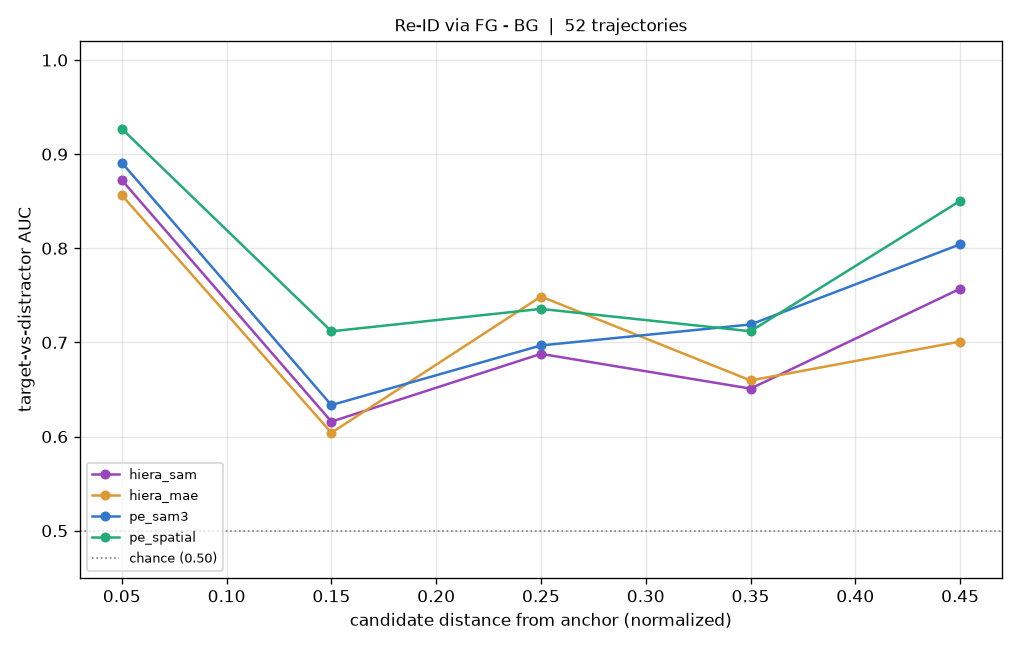
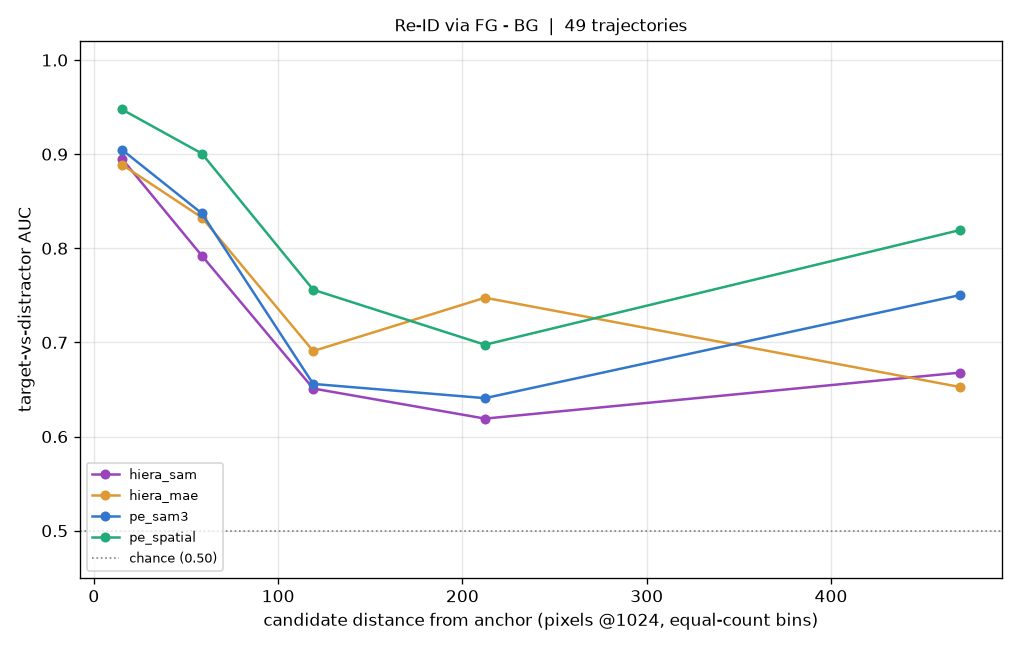
fixed experiment

diff --git a/pe_reid_longrange.py b/pe_reid_longrange.py
@@ -20,9 +20,9 @@ from sklearn.metrics import roc_auc_score
 from sklearn.model_selection import train_test_split
 from tqdm import tqdm
 
-from src.offline_training.dataset_encoders import crop_around_masks, load_dataset_encoders, _norm, _patch_masks, HALF
+from src.offline_training.dataset_encoders import crop_around_masks, anchor_size_pixels, load_dataset_encoders, _norm, _patch_masks, HALF
 from src.offline_training.dataset_labels import load_clean_boxes_by_frame, _box_center as box_center
-from src.utils.load_bboxes import convert_bbox
+from src.utils.load_bboxes import convert_bbox, load_bboxes
 from create_anchor_dataset import anchor_trajectory_index, slice_detection_data_for_tracker
 
 
@@ -104,17 +104,17 @@ def box_prompt_masks(sam, frame, boxes):
 
 
 @torch.inference_mode()
-def entity_tokens(sam, backbones, frame, boxes, crop_size):
-    """Return each box's (foreground, background) tokens for every backbone, cropped tightly around its
-    own mask. Returns a list aligned to boxes (each entry {backbone: (fg, bg)}), or None if any mask is empty."""
+def entity_tokens(sam, backbones, frame, boxes, floor, crop_size):
+    """Return each box's (foreground, background) tokens for every backbone, cropped around its own mask
+    but floored at the anchor scale. Returns a list aligned to boxes ({backbone: (fg, bg)}), or None if any mask is empty."""
 
     box_masks = box_prompt_masks(sam, frame, boxes)
     if any((box_mask > 0).sum() == 0 for box_mask in box_masks):
         return None
 
-    # Crop every box out of the (repeated) frame in one call, each at its own mask's natural scale.
+    # Crop every box out of the (repeated) frame in one call, floored at the anchor scale.
     frame_per_box = np.repeat(frame[None], len(box_masks), axis=0)
-    box_crops, box_crop_masks = crop_around_masks(frame_per_box, np.stack(box_masks).astype(np.float32), crop_size, 0.25)
+    box_crops, box_crop_masks = crop_around_masks(frame_per_box, np.stack(box_masks).astype(np.float32), crop_size, 0.5, floor)
 
     tokens_by_box = [{} for _ in boxes]
     for backbone_name, encode in backbones.items():
@@ -131,13 +131,17 @@ def entity_tokens(sam, backbones, frame, boxes, crop_size):
 
 @torch.inference_mode()
 def chamfer_similarity(reference_fg, tokens):
-    """Unidirectional chamfer: mean best cosine of each token to any anchor-foreground patch. NaN if either is empty."""
+    """Bidirectional (symmetric) chamfer: average of tokens->anchor and anchor->tokens mean best cosine.
+    NaN if either side is empty."""
 
     if reference_fg.shape[0] == 0 or tokens.shape[0] == 0:
         return float("nan")
     reference = F.normalize(reference_fg, dim=-1)
     tokens = F.normalize(tokens, dim=-1)
-    return float((tokens @ reference.T).max(dim=1).values.mean())
+    similarity = tokens @ reference.T                        # (n_tokens, n_anchor_fg)
+    tokens_to_anchor = similarity.max(dim=1).values.mean()   # each candidate token -> best anchor patch
+    anchor_to_tokens = similarity.max(dim=0).values.mean()   # each anchor patch -> best candidate token
+    return float(0.5 * (tokens_to_anchor + anchor_to_tokens))
 
 
 def distance(a, b):
@@ -171,7 +175,11 @@ def evaluate_trajectory(sam, backbones, detection_data, trajectory, config):
     if anchor_index is None:
         return
 
+    # The anchor's amodal box (full extent, incl. occluded parts) sets the crop-size floor for the trajectory.
     visible_json = Path(config.detection_data.visible_directory) / f"{video}.json"
+    amodal_json = Path(config.detection_data.amodal_directory) / f"{video}.json"
+    anchor_amodal = load_bboxes(str(amodal_json), str(visible_json), person, use_amodal=True)[anchor_index]
+
     warmup = slice_detection_data_for_tracker(detection_data, anchor_index)
     window = slice(warmup, warmup + config.max_frames)
     frames = detection_data.frames[window]
@@ -181,8 +189,10 @@ def evaluate_trajectory(sam, backbones, detection_data, trajectory, config):
     if len(frames) < 2 or float(boxes[0][2]) <= 0:
         return
 
-    # Anchor query: the target's foreground tokens at frame 0, cropped tightly around its own mask.
-    anchor = entity_tokens(sam, backbones, frames[0], [boxes[0]], config.crop_size)
+    # Anchor query: the target's foreground tokens at frame 0, cropped at the anchor's amodal scale.
+    anchor_box = anchor_amodal if float(anchor_amodal[2]) > 0 else boxes[0]
+    floor = anchor_size_pixels(anchor_box, frames[0].shape)
+    anchor = entity_tokens(sam, backbones, frames[0], [boxes[0]], floor, config.crop_size)
     if anchor is None:
         return
     query = anchor[0]
@@ -203,7 +213,7 @@ def evaluate_trajectory(sam, backbones, detection_data, trajectory, config):
         # Candidates are the target (index 0) then its nearest distractors, each binned by its distance from the anchor.
         candidate_boxes = [boxes[t]] + distractors
         candidate_dists = [distance(to_pixel(box, width, height, px_scale), anchor_center) for box in candidate_boxes]
-        candidates = entity_tokens(sam, backbones, frames[t], candidate_boxes, config.crop_size)
+        candidates = entity_tokens(sam, backbones, frames[t], candidate_boxes, floor, config.crop_size)
         if candidates is None:
             continue
 
